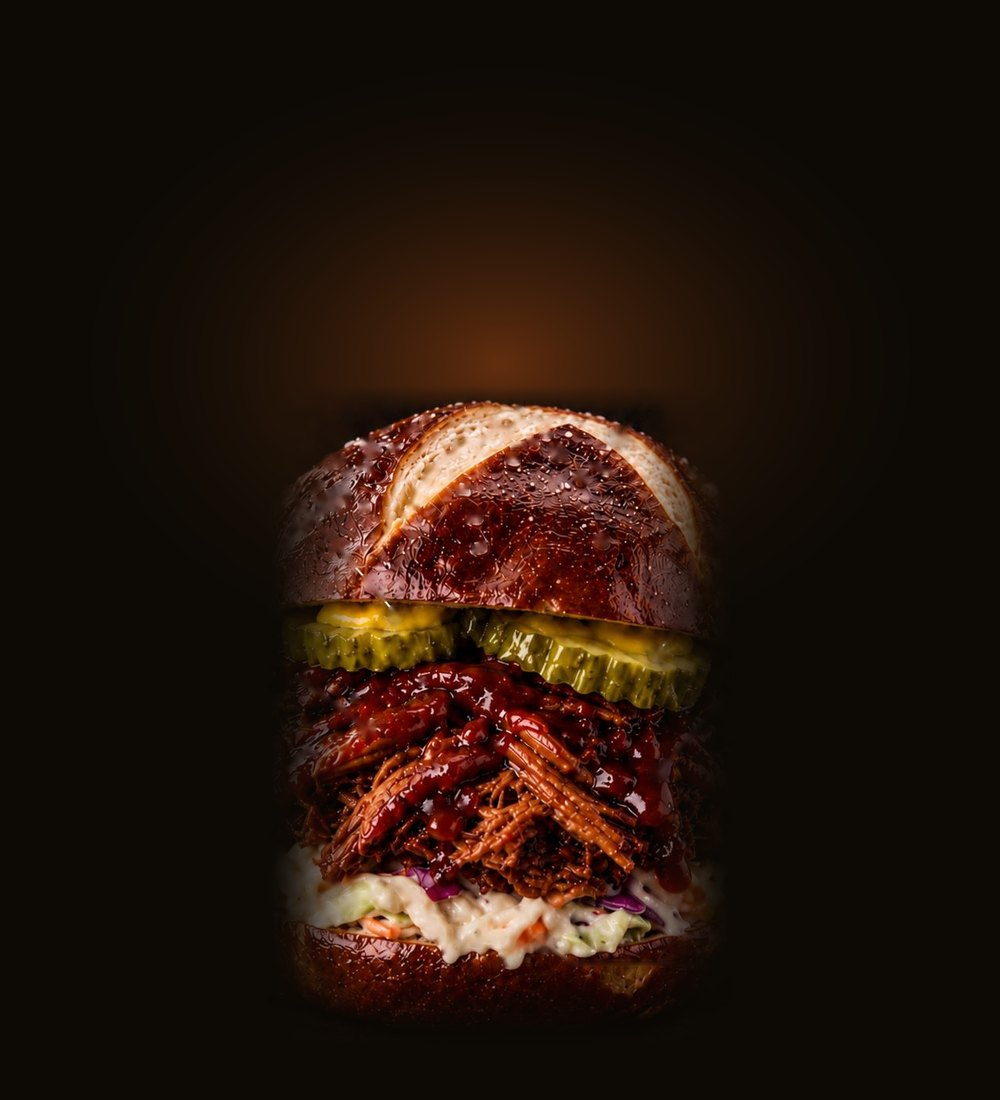
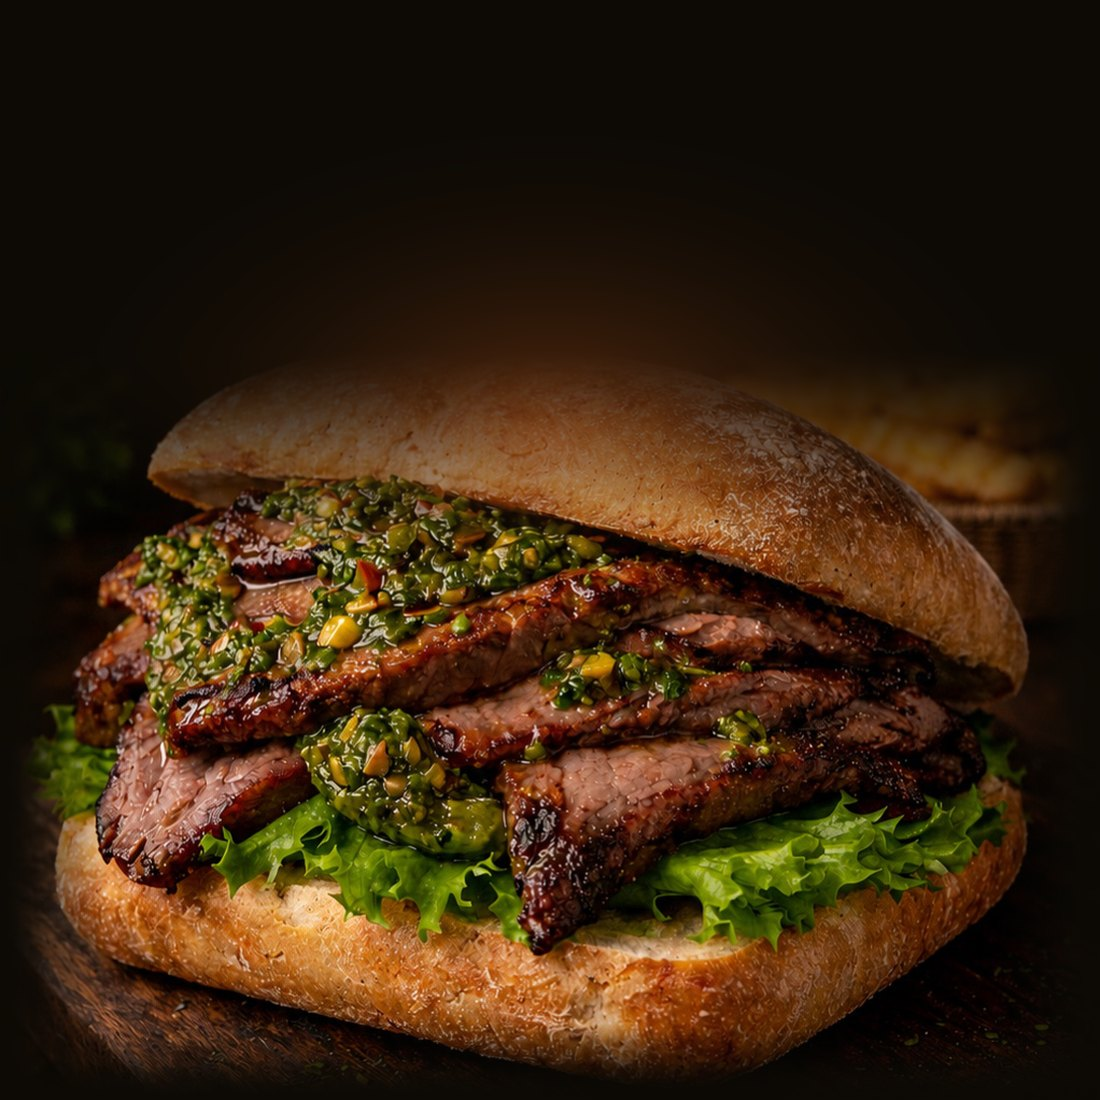
Hero: full smoked picanha sandwich from the printed menu; smoke recalibrated to rise from the meat
Claude-Session: https://claude.ai/code/session_01A7nkjkejJgFyaMQwyMGUE5

diff --git a/index.html b/index.html
@@ -91,7 +91,7 @@ nav{position:sticky;top:0;z-index:50;background:rgba(20,15,8,.94);backdrop-filte
 
 /* hero */
 .hero{background:#0d0a05;border-bottom:1px solid var(--line)}
-.hero-grid{display:grid;grid-template-columns:1.1fr .9fr;align-items:stretch;max-width:1080px;margin:0 auto;min-height:500px}
+.hero-grid{display:grid;grid-template-columns:1fr 1fr;align-items:stretch;max-width:1080px;margin:0 auto;min-height:500px}
 .hero-copy{align-self:center;padding:48px 36px 48px 20px}
 .tag{font-family:'Playfair Display',serif;font-style:italic;color:var(--brass);font-size:1.05rem;margin-bottom:12px}
 h1{font-size:var(--t-h1);line-height:1.12;margin-bottom:16px;letter-spacing:-.005em}
@@ -243,7 +243,7 @@ footer{border-top:1px solid var(--line);background:#0d0a05;padding:28px 0 22px}
       </div>
     </div>
     <div class="hero-img">
-      <img src="assets/hero-stage.jpg" alt="Smoked pulled pork sandwich on a pretzel bun, steaming under a warm ember glow" fetchpriority="high">
+      <img src="assets/hero-stage.jpg" alt="Smoked picanha sandwich with chimichurri on artisan ciabatta, steaming under a warm ember glow" fetchpriority="high">
       <canvas class="smoke" aria-hidden="true"></canvas>
     </div>
   </div>
@@ -515,7 +515,7 @@ footer{border-top:1px solid var(--line);background:#0d0a05;padding:28px 0 22px}
   ' float w2=pow(clamp(1.-abs(fbm(p*1.6+1.7*r-vec2(0.,t*5.5))-.5)*2.,0.,1.),13.);',
   ' float body=smoothstep(.45,.85,f);',
   ' float sway=(fbm(vec2(uv.y*1.8,T*.12))-.5)*.9*clamp(hgt*2.,0.,1.);',
-  ' float spread=HW*.6+max(hgt,0.)*.5;',
+  ' float spread=HW*.55+max(hgt,0.)*.45;',
   ' float px=(uv.x-X)/(spread*1.)+sway/spread*.25;',
   ' float colm=exp(-px*px*1.4);',
   ' float rise=smoothstep(-.06,.05,hgt)*(1.-smoothstep(.82,1.,uv.y));',
@@ -542,8 +542,8 @@ footer{border-top:1px solid var(--line);background:#0d0a05;padding:28px 0 22px}
   var la=gl.getAttribLocation(pr,'a');gl.enableVertexAttribArray(la);gl.vertexAttribPointer(la,2,gl.FLOAT,false,0,0);
   var uR=gl.getUniformLocation(pr,'R'),uT=gl.getUniformLocation(pr,'T'),uP=gl.getUniformLocation(pr,'P');
   var img=c.parentNode.querySelector('img');
-  // stage image geometry: 1000x1100, sandwich top at 35% from top, centered, half-width 23%
-  var IW=1000, IH=1100, TOP=0.35, HALF=0.23;
+  // stage image geometry: 1100x1100, smoke leaves the meat at ~40% from top, centered, half-width 36%
+  var IW=1100, IH=1100, TOP=0.40, HALF=0.36;
   var scale=Math.min(window.devicePixelRatio||1,1.5)*.6, running=true, t0=performance.now(), src=[.65,.5,.23];
   function size(){
     var r=c.getBoundingClientRect(); c.width=Math.max(1,r.width*scale|0); c.height=Math.max(1,r.height*scale|0); gl.viewport(0,0,c.width,c.height);
